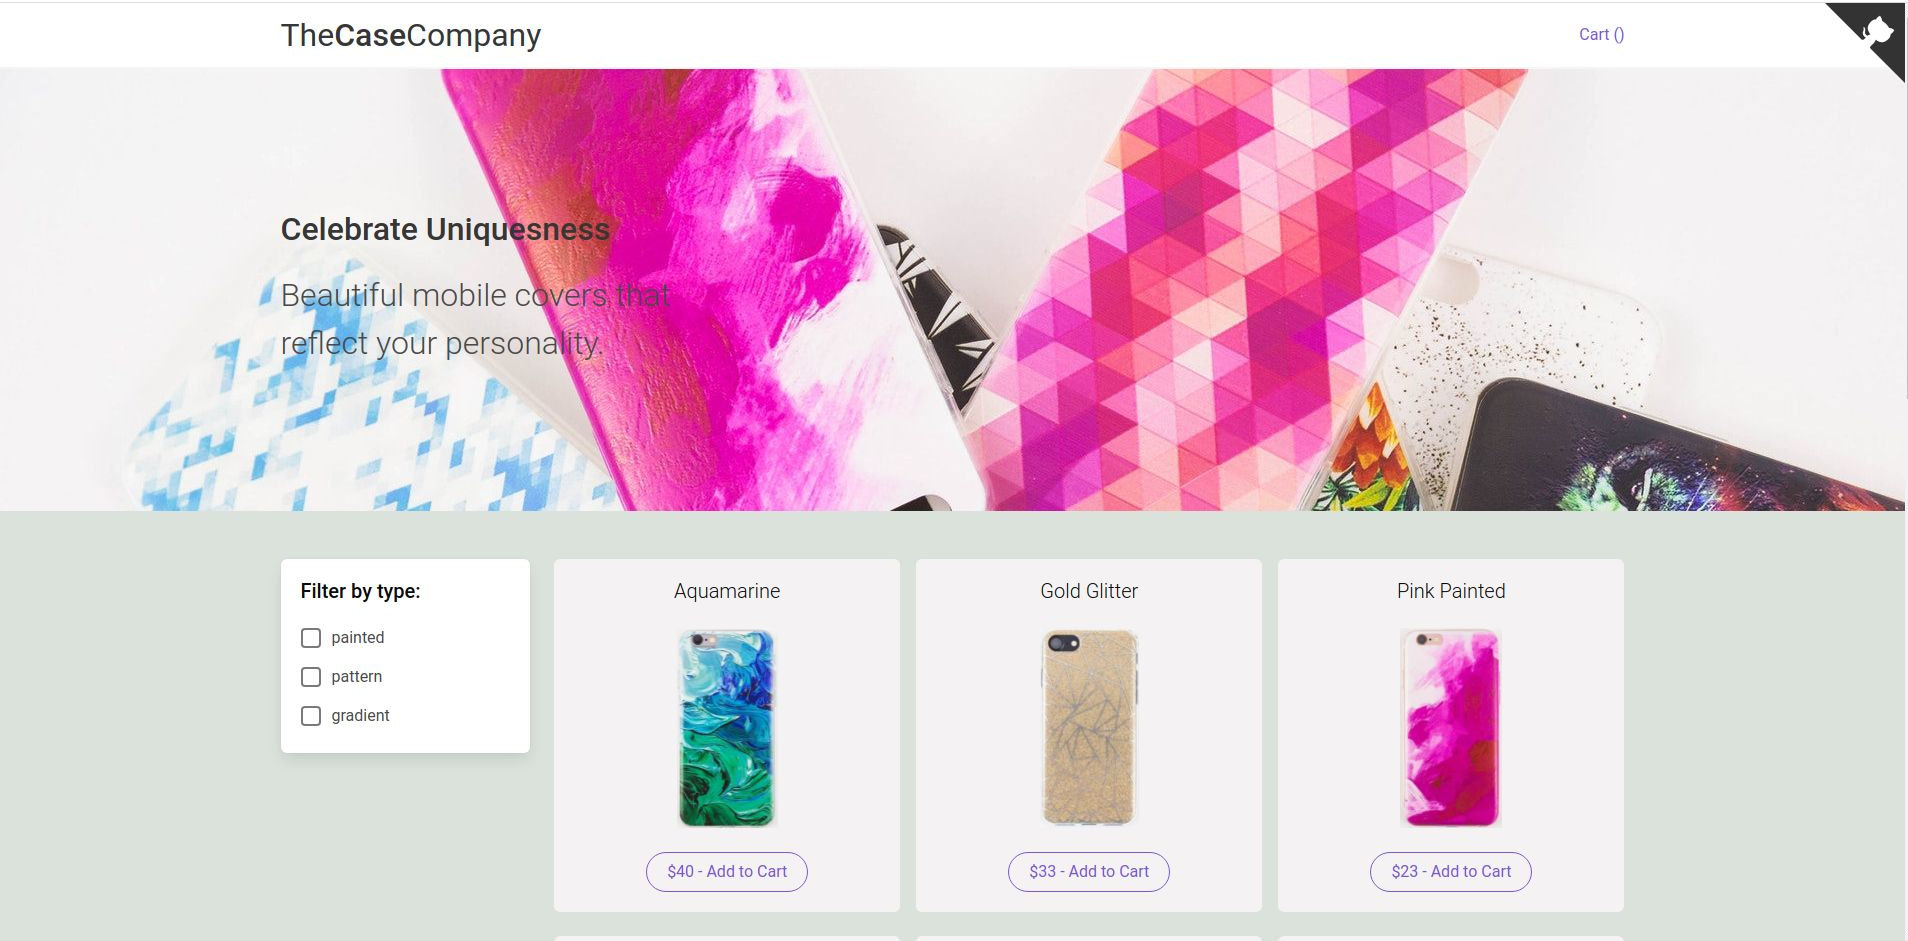
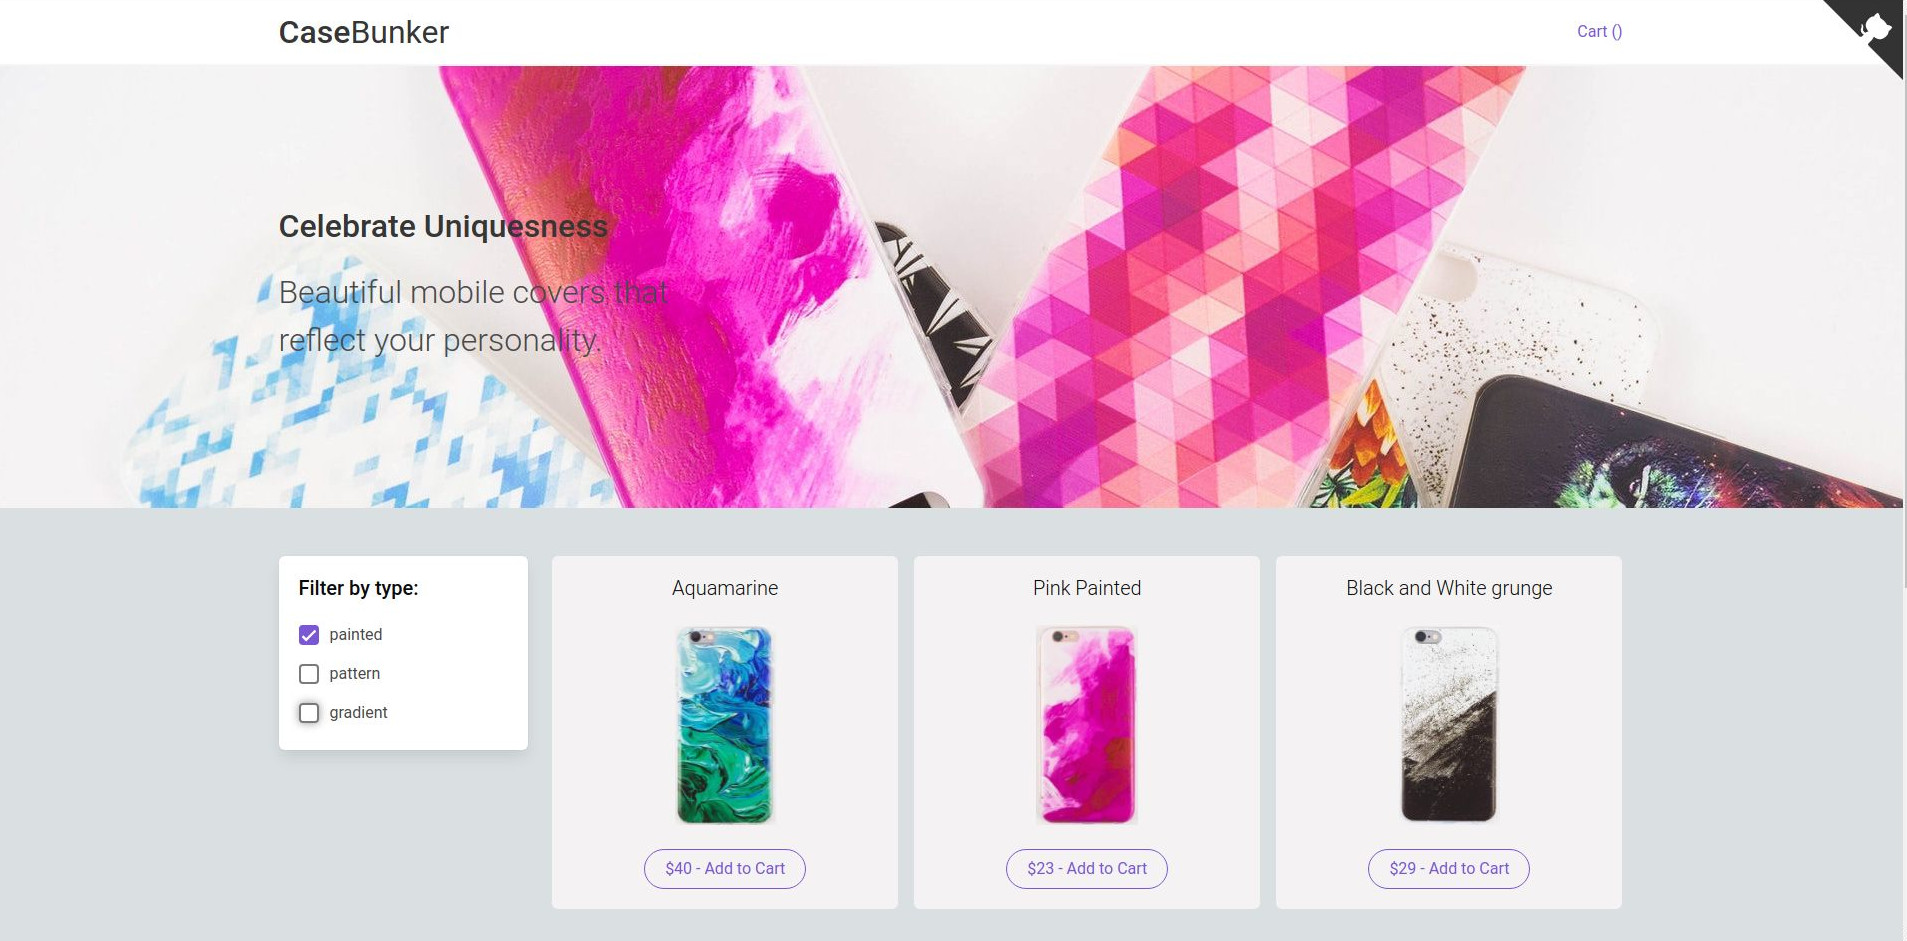
Cart Total

diff --git a/layouts/default.vue b/layouts/default.vue
@@ -4,7 +4,7 @@
       <div class="container">
         <div class="navbar-brand">
           <router-link to="/" class="navbar-item is-size-3 logo has-text-dark">
-          The <b>Case</b> Company
+          <span><b> Case </b></span> Bunker
           </router-link>
         </div>
         <div class="navbar-menu is-active">
@@ -85,17 +85,17 @@
 </template>
 <script>
   export default {
-    //computed: {
-     // cartTotal () {
-       // return this.$store.state.cartTotal
-     // }
-   // }
+    computed: {
+     cartTotal () {
+       return this.$store.state.cartTotal
+     }
+   }
   }
 </script>
 
 <style>
 body {
-  background: #DAE2DB;
+  background: #dae0e2;
 }
 .resp-sharing-button__link,
 .resp-sharing-button__icon {
